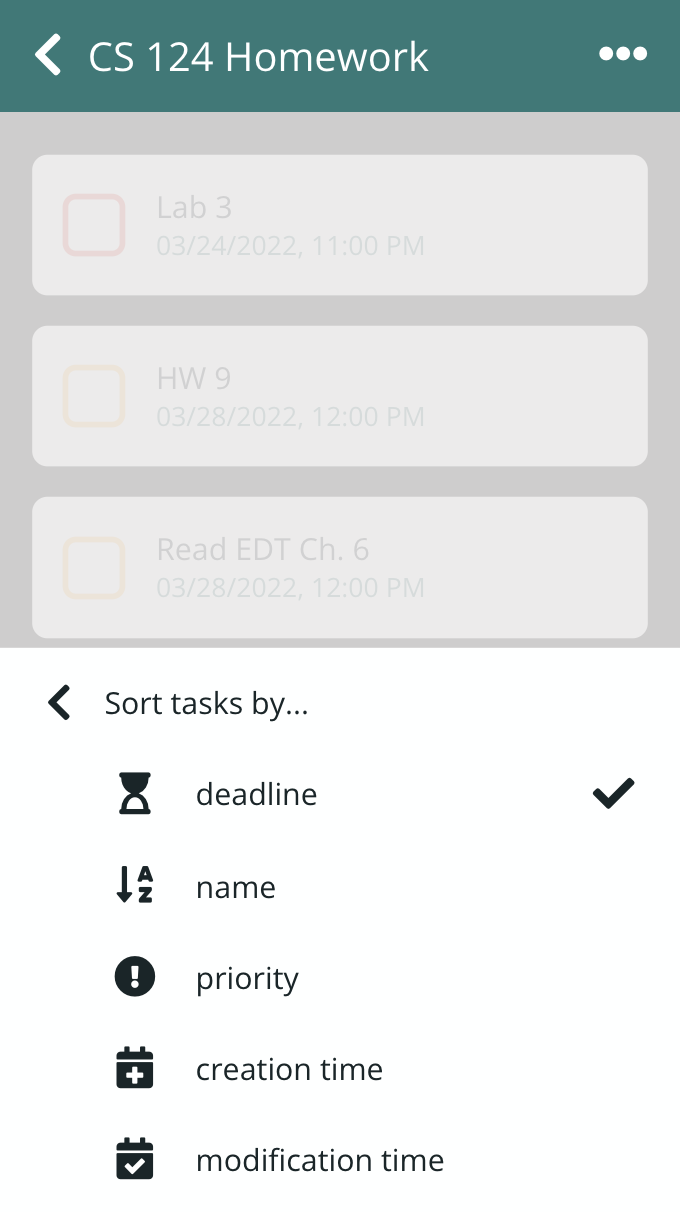
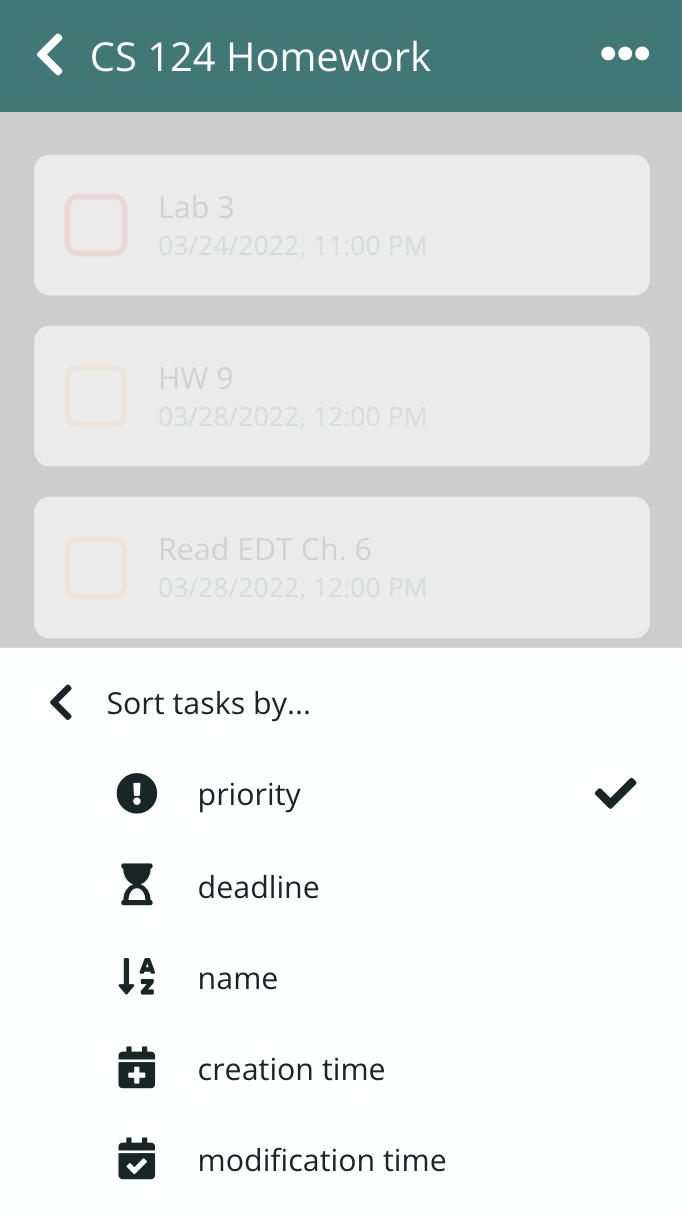
Change default task sort method to be by priority

diff --git a/src/SingleListPage/ListMenu.css b/src/SingleListPage/ListMenu.css
@@ -120,47 +120,47 @@
   grid-column: 2 / span 3;
 }
 
-.sort-by-deadline-icon {
-  grid-row: 2 / span 1;
-  grid-column: 2 / span 1;
-}
-
-.sort-by-deadline-desc {
-  grid-row: 2 / span 1;
-  grid-column: 3 / span 1;
-}
-
-.sort-by-deadline-check {
-  grid-row: 2 / span 1;
-  grid-column: 4 / span 1;
-}
-
-.sort-by-name-icon {
-  grid-row: 3 / span 1;
-  grid-column: 2 / span 1;
-}
-
-.sort-by-name-desc {
-  grid-row: 3 / span 1;
-  grid-column: 3 / span 1;
-}
-
-.sort-by-name-check {
-  grid-row: 3 / span 1;
-  grid-column: 4 / span 1;
-}
-
 .sort-by-priority-icon {
-  grid-row: 4 / span 1;
+  grid-row: 2 / span 1;
   grid-column: 2 / span 1;
 }
 
 .sort-by-priority-desc {
-  grid-row: 4 / span 1;
+  grid-row: 2 / span 1;
   grid-column: 3 / span 1;
 }
 
 .sort-by-priority-check {
+  grid-row: 2 / span 1;
+  grid-column: 4 / span 1;
+}
+
+.sort-by-deadline-icon {
+  grid-row: 3 / span 1;
+  grid-column: 2 / span 1;
+}
+
+.sort-by-deadline-desc {
+  grid-row: 3 / span 1;
+  grid-column: 3 / span 1;
+}
+
+.sort-by-deadline-check {
+  grid-row: 3 / span 1;
+  grid-column: 4 / span 1;
+}
+
+.sort-by-name-icon {
+  grid-row: 4 / span 1;
+  grid-column: 2 / span 1;
+}
+
+.sort-by-name-desc {
+  grid-row: 4 / span 1;
+  grid-column: 3 / span 1;
+}
+
+.sort-by-name-check {
   grid-row: 4 / span 1;
   grid-column: 4 / span 1;
 }

diff --git a/src/SingleListPage/ListMenu.js b/src/SingleListPage/ListMenu.js
@@ -44,6 +44,14 @@ function ListMenu(props) {
           <SortByFieldBar
             onChangeSort={props.onChangeSort}
             listTasksPrimarySortField={props.listTasksPrimarySortField}
+            barSortIcon="fas fa-exclamation-circle"
+            barSortFieldAbbrev="priority"
+            barSortField="priority"
+            barSortFieldText="priority"
+          />
+          <SortByFieldBar
+            onChangeSort={props.onChangeSort}
+            listTasksPrimarySortField={props.listTasksPrimarySortField}
             barSortIcon="fas fa-hourglass-start"
             barSortFieldAbbrev="deadline"
             barSortField="deadline"
@@ -56,14 +64,6 @@ function ListMenu(props) {
             barSortFieldAbbrev="name"
             barSortField="nameLowercasedForSorting"
             barSortFieldText="name"
-          />
-          <SortByFieldBar
-            onChangeSort={props.onChangeSort}
-            listTasksPrimarySortField={props.listTasksPrimarySortField}
-            barSortIcon="fas fa-exclamation-circle"
-            barSortFieldAbbrev="priority"
-            barSortField="priority"
-            barSortFieldText="priority"
           />
           <SortByFieldBar
             onChangeSort={props.onChangeSort}

diff --git a/src/App.js b/src/App.js
@@ -83,9 +83,9 @@ function App() {
     "tasks"
   );
   const [listTasksPrimarySortField, setListTasksPrimarySortField] =
-    useState("deadline"); // by default, primary sort current list's tasks by deadline
+    useState("priority"); // by default, primary sort current list's tasks by priority
   const [listTasksPrimarySortDirection, setListTasksPrimarySortDirection] =
-    useState("asc"); // by default, sort current list's tasks ascending by listTasksPrimarySortField
+    useState("desc"); // by default, sort current list's tasks descending by listTasksPrimarySortField
   const [listTasksSecondarySortField, setListTasksSecondarySortField] =
     useState("deadline"); // by default, secondary sort current list's tasks by deadline
   const [listTasksSecondarySortDirection, setListTasksSecondarySortDirection] =
